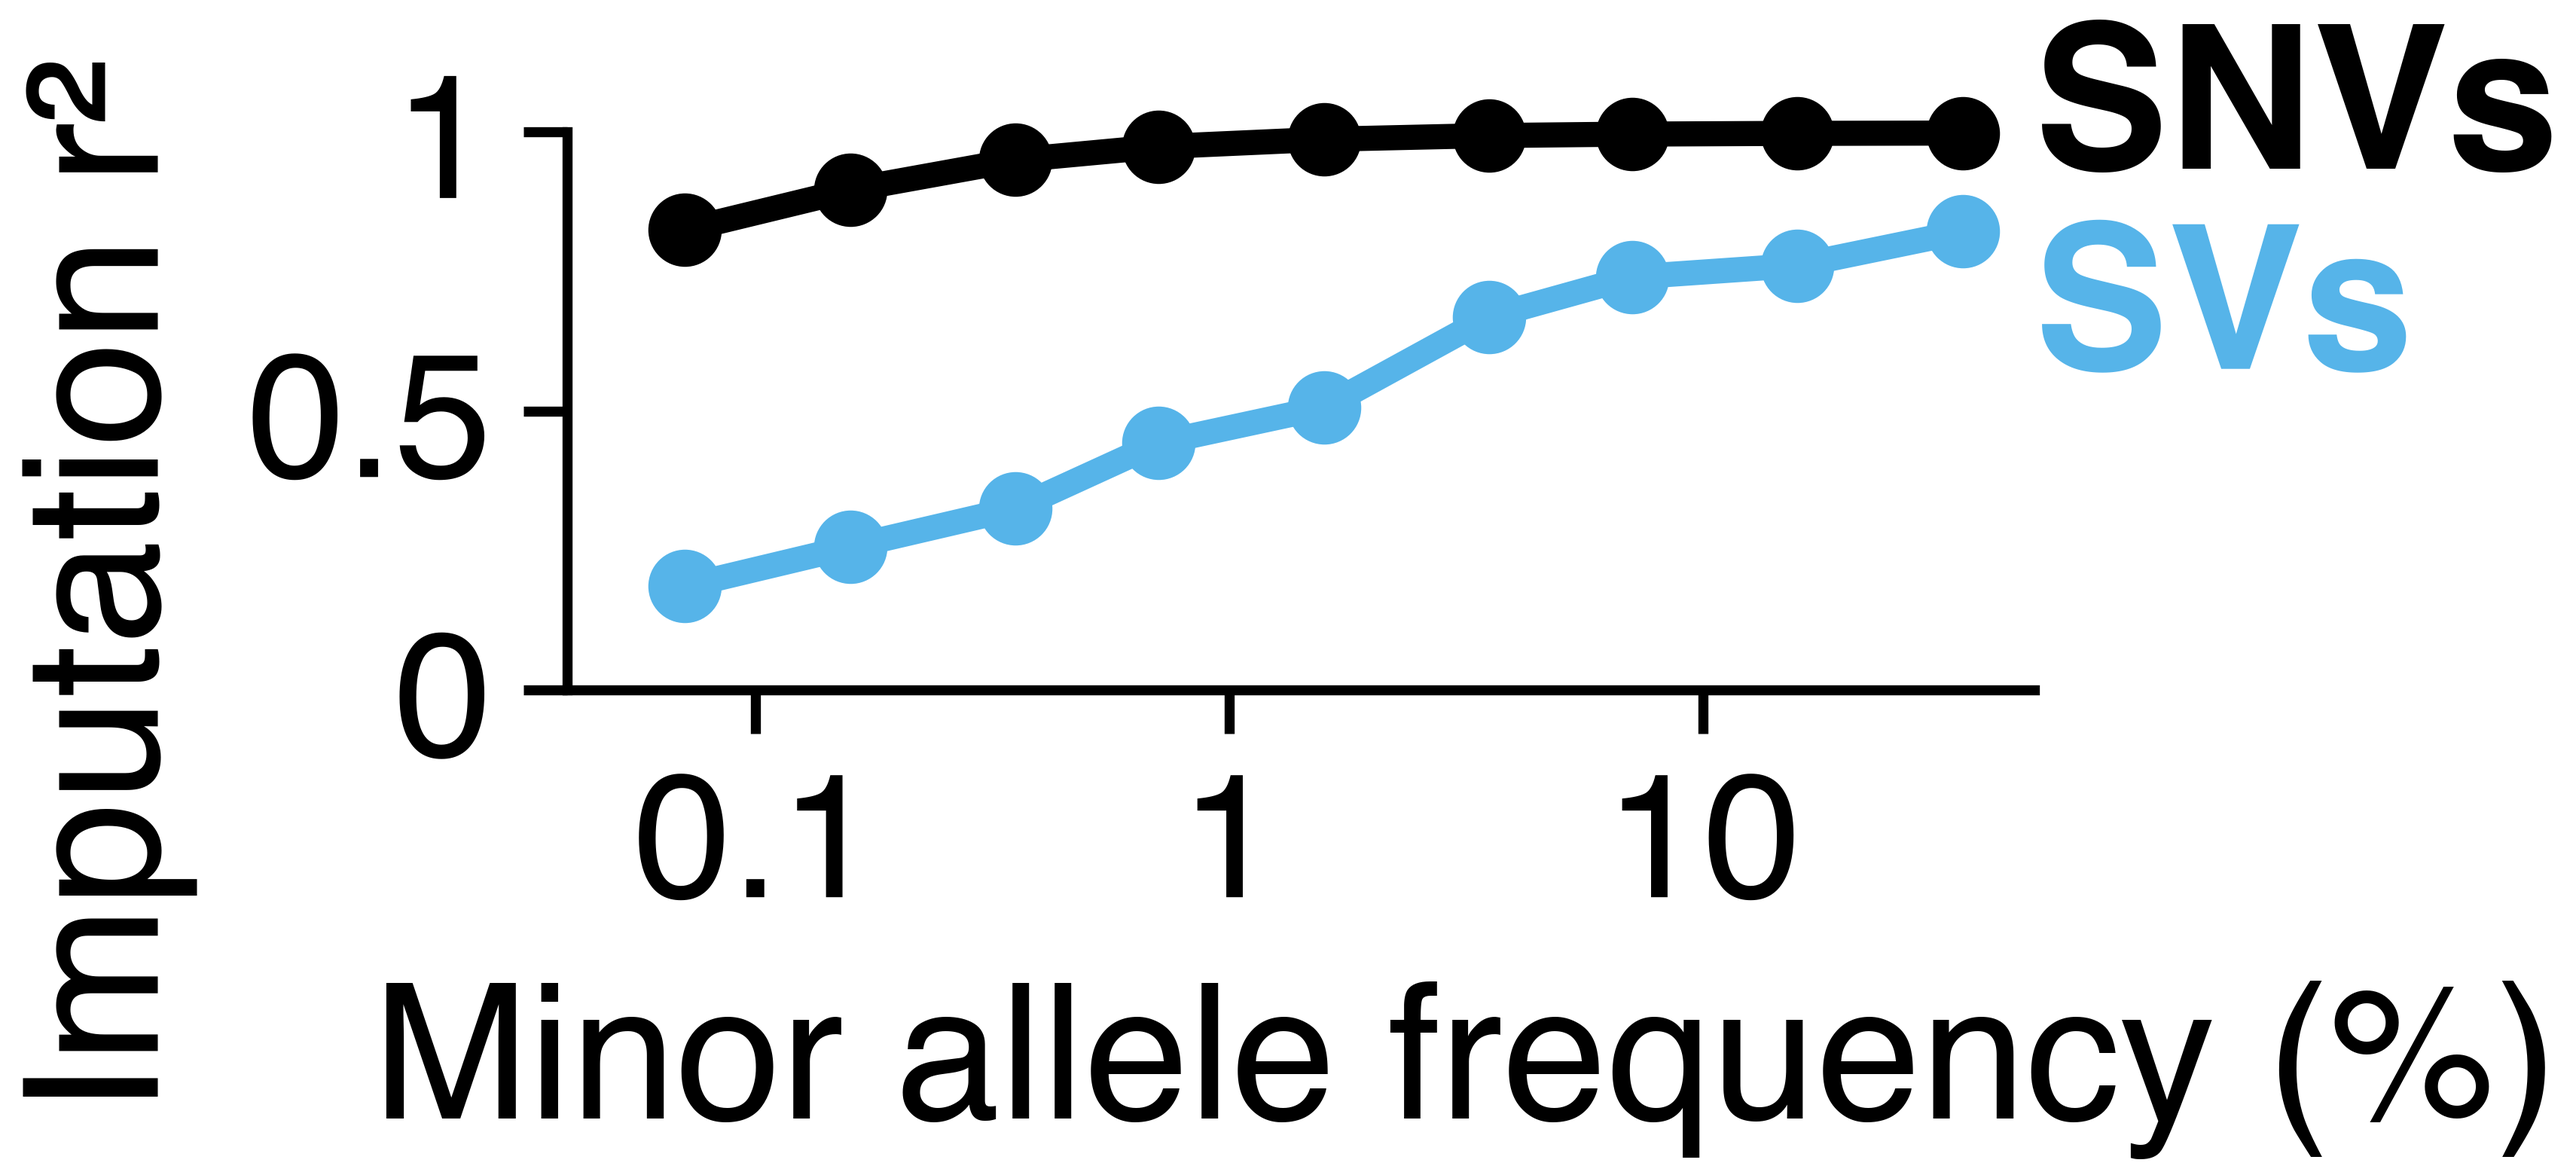
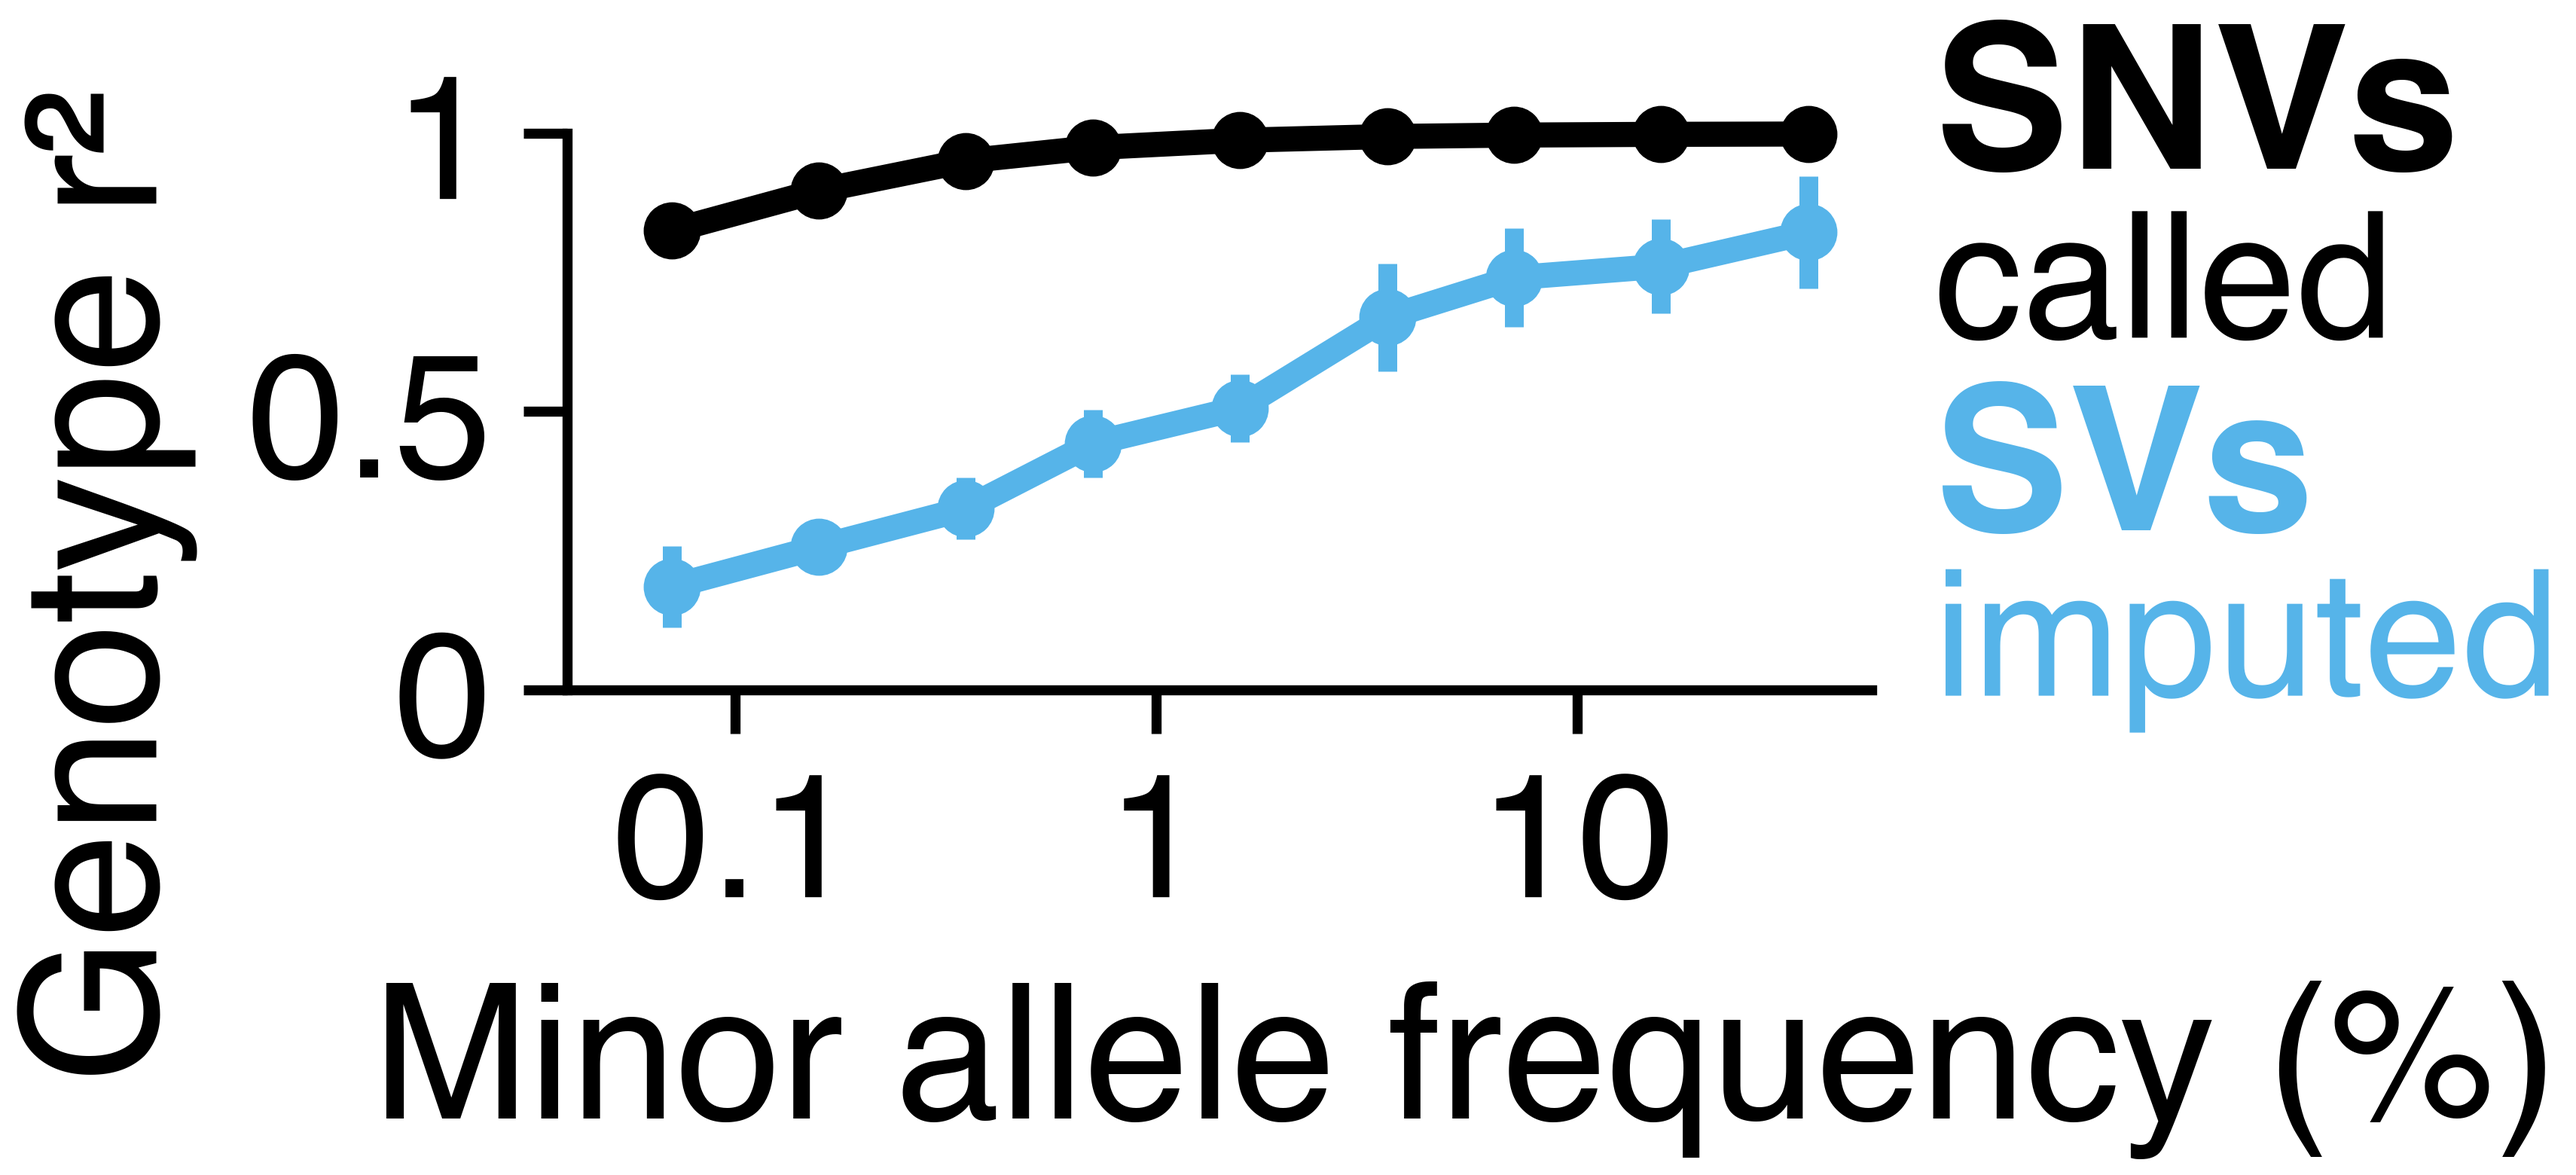
The poster's genotype accuracy figure says SNVs were called and SVs imputed, and shows a 95% interval for each bin (docs/poster/ashg2026/sim_gallery.py). In the simulation, SNV and indel genotypes are called from simulated 30x reads (benchmarks/bench_sim/measurement_beagle.py), and only SV and TR ge

diff --git a/docs/poster/ashg2026/sim_gallery.py b/docs/poster/ashg2026/sim_gallery.py
@@ -994,27 +994,34 @@ def poster_sv_gain_figure(grids):
 
 
 def poster_imputation_figure(summary):
-    """The imputation figure at the foot of the poster's left column: each frequency bin's mean r² of the imputed
-    dosage with the true genotype, SNVs and SVs, each named after its line's last mark. The margins are measured from
-    the drawn type, so larger type widens them. The y axis's title, longer than the axes are tall, is centred on the
-    figure's height, and the x axis's, wider than the axes, ends at the figure's right edge."""
+    """The genotype accuracy figure at the foot of the poster's left column: each frequency bin's mean r² of the
+    measured genotype with the true genotype, for SNVs called from simulated reads and SVs imputed by Beagle, with a
+    conservative 95% interval of the mean, ±1.96 √(mean (1 − mean) / n): an r² lies in [0, 1], so its variance is at
+    most mean (1 − mean), and the summary keeps each bin's mean and count, not its values. The names stand in a column
+    after the lines' last marks. The margins are measured from the drawn type, so larger type widens them. The y axis's
+    title is centred on the figure's height, and the x axis's, wider than the axes, ends at the figure's right edge."""
     accuracy = summary["genotype_accuracy"]["r2_by_frequency"]
     width, height, pad = POSTER_GENOTYPES, 5.2, 0.08
     fig = plt.figure(figsize=(width, height))
     ax = frame(fig, 0, 0, width, height)
-    ends = {}
+    mark = POSTER_MARK * 0.7
     for key, color in (("SNV", INK), ("SV", IMPUTED)):
         bins = [b for b in accuracy[key]["bins"] if b["count"]]
         centers = np.array([math.sqrt(b["low"] * b["high"]) * 100 for b in bins])
         mean = np.array([b["mean"] for b in bins])
-        ax.plot(centers, mean, color=color, marker="o", markersize=POSTER_MARK * 0.9, markeredgewidth=0, zorder=3,
-                clip_on=False)
-        ends[key] = (centers[-1], mean[-1])
-    # the two last marks are close, so SNVs is set a little above its mark and SVs below
-    after = POSTER_MARK * 0.9 / 2 / 72 + 0.15
-    for key, name, color, up in (("SNV", "SNVs", INK, 0.1), ("SV", "SVs", IMPUTED, -0.35)):
-        ax.text(*ends[key], name, transform=ax.transData + ScaledTranslation(after, up, fig.dpi_scale_trans),
-                color=color, fontsize=POSTER_NAME, fontweight="bold", ha="left", va="center")
+        half = 1.96 * np.sqrt(mean * (1 - mean) / np.array([b["count"] for b in bins]))
+        ax.vlines(centers, np.clip(mean - half, 0, 1), np.clip(mean + half, 0, 1), color=color, linewidth=POSTER_BAR,
+                  zorder=2, clip_on=False)
+        ax.plot(centers, mean, color=color, marker="o", markersize=mark, markeredgewidth=0, zorder=3, clip_on=False)
+    # each name over how its genotypes were measured, in a column level with the SNVs' last mark, since the two last
+    # marks are too close for a two-line name beside each
+    after = mark / 2 / 72 + 0.15
+    for name, color, down, size, weight in (("SNVs", INK, -0.1, POSTER_NAME, "bold"),
+                                            ("called", INK, 0.68, POSTER_TYPE, "normal"),
+                                            ("SVs", IMPUTED, 1.5, POSTER_NAME, "bold"),
+                                            ("imputed", IMPUTED, 2.28, POSTER_TYPE, "normal")):
+        ax.text(1, 1, name, transform=shifted(ax, after, -down, False), color=color, fontsize=size, fontweight=weight,
+                ha="left", va="center")
     ax.set_xscale("log")
     ax.set_xlim(0.04, 50)
     ax.set_ylim(0, 1)
@@ -1022,7 +1029,7 @@ def poster_imputation_figure(summary):
     ax.xaxis.set_minor_locator(matplotlib.ticker.NullLocator())
     ax.set_yticks([0, 0.5, 1], ["0", "0.5", "1"])
     ax.set_xlabel("Minor allele frequency (%)")
-    ax.set_ylabel("Imputation r²")
+    ax.set_ylabel("Genotype r²")
     # each margin is what the type reaches past the axes, plus a pad, measured again until it settles
     renderer = fig.canvas.get_renderer()
     inches = fig.dpi_scale_trans.inverted()
